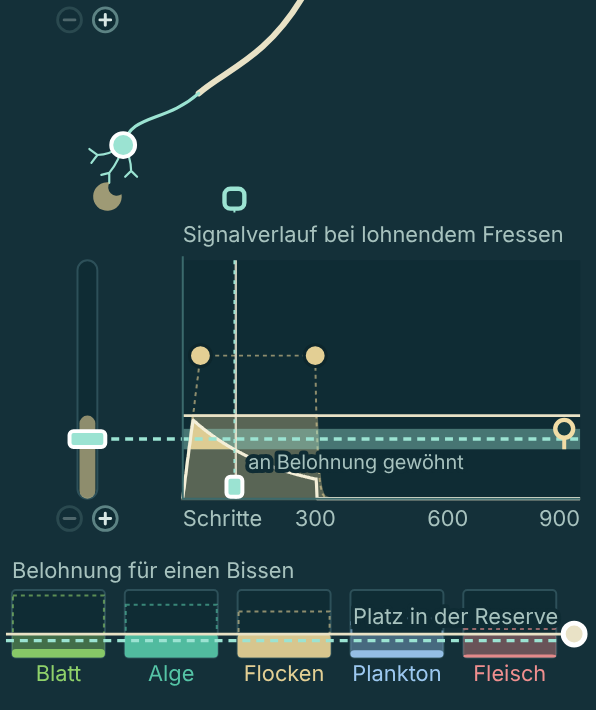
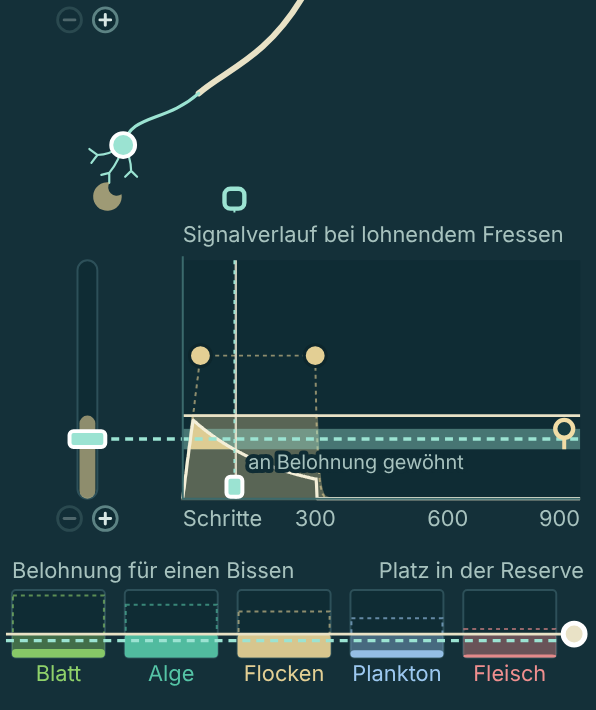
Darm: „Platz in der Reserve“ wieder fest in der Titelzeile, nur Linie und Knopf wandern (Fable 04:13: Beschriftung lag über Balken)
Claude-Session: https://claude.ai/code/session_01SAD6gcsuZjdDe9bFzLa7Yk

Changed region(s): [[0.5738, 0.7746, 0.9664, 0.8986], [0.6342, 0.7746, 0.755, 0.8366]]

diff --git a/entwuerfe/inspektoren.html b/entwuerfe/inspektoren.html
@@ -674,7 +674,7 @@ function drawSense(id) {
     // The room in the reserve: a trial like the input above, set by its round knob.
     if (o.row.room) {
       const y = BY(room);
-      txt(live, rowR - 13, y - 5, o.row.room, {'text-anchor' : 'end', style : `paint-order:stroke;stroke:${COLOUR.track};stroke-width:4px;stroke-linejoin:round`});
+      txt(live, rowR, B0 - 6, o.row.room, {'text-anchor' : 'end'});
       el('path', {d : `M${rowL - 3} ${y} H${rowR - 5}`, stroke : COLOUR.icon, 'stroke-width' : 1.4}, live);
       drag(svg, el('circle', {cx : rowR - 5, cy : y, r : 5.5, fill : COLOUR.icon}, live), p => { tried.room = clamp((B1 - p.y) / (B1 - B0), 0, 1); draw([id]); }, id + 'room', 'knob');
     }
